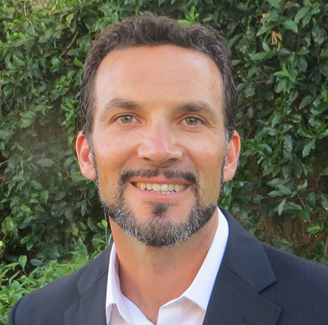
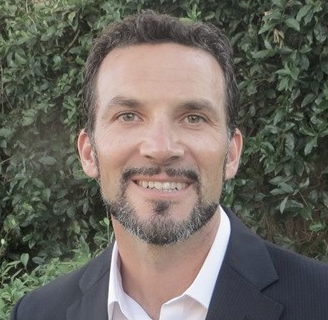
Improve cropped image

diff --git a/src/templates/about-page.js b/src/templates/about-page.js
@@ -28,7 +28,7 @@ export const AboutPageTemplate = ({
                   <img
                     style={{width: 128, borderRadius: '50%'}}
                     alt="Caleb Saunders"
-                    src="/img/profile pic.jpg"
+                    src="/img/profile pic.png"
                   >
                   </img>
                   <p>Caleb Saunders</p>
